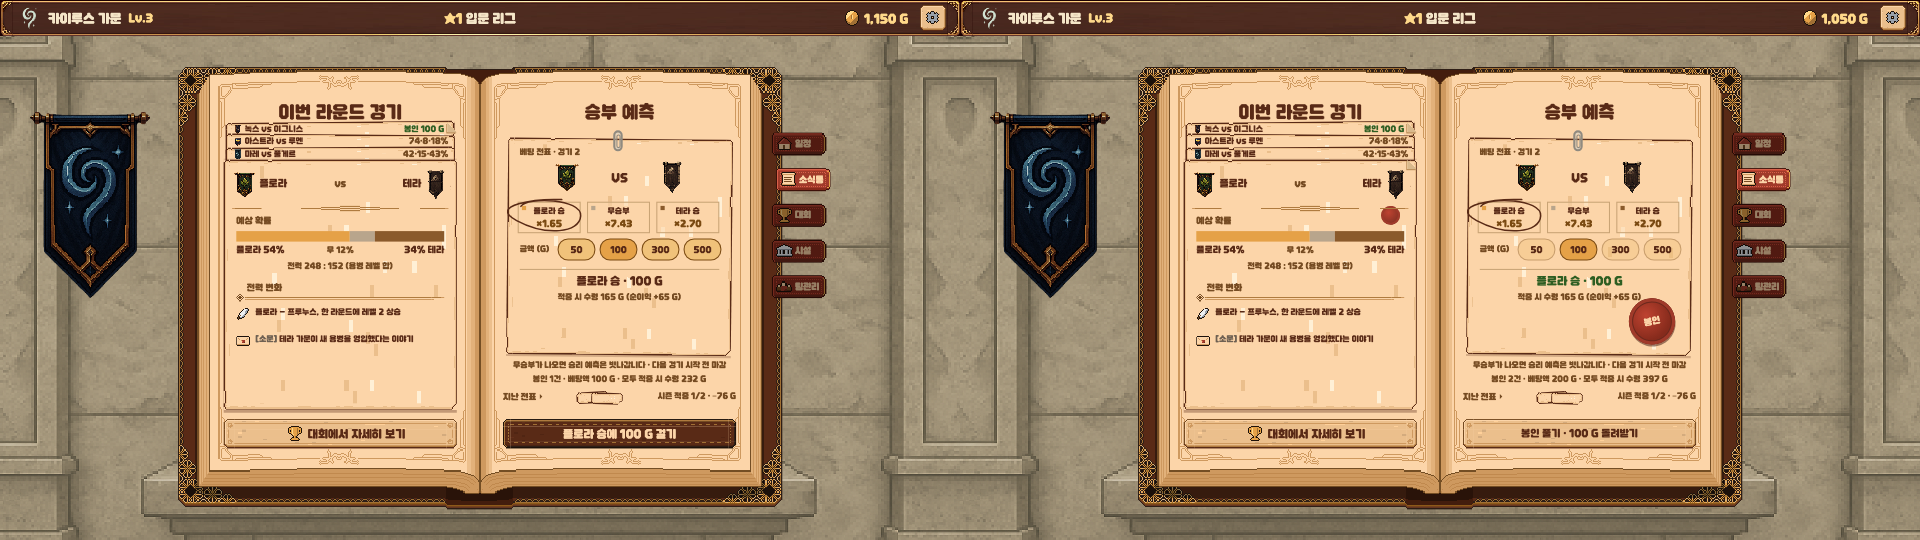
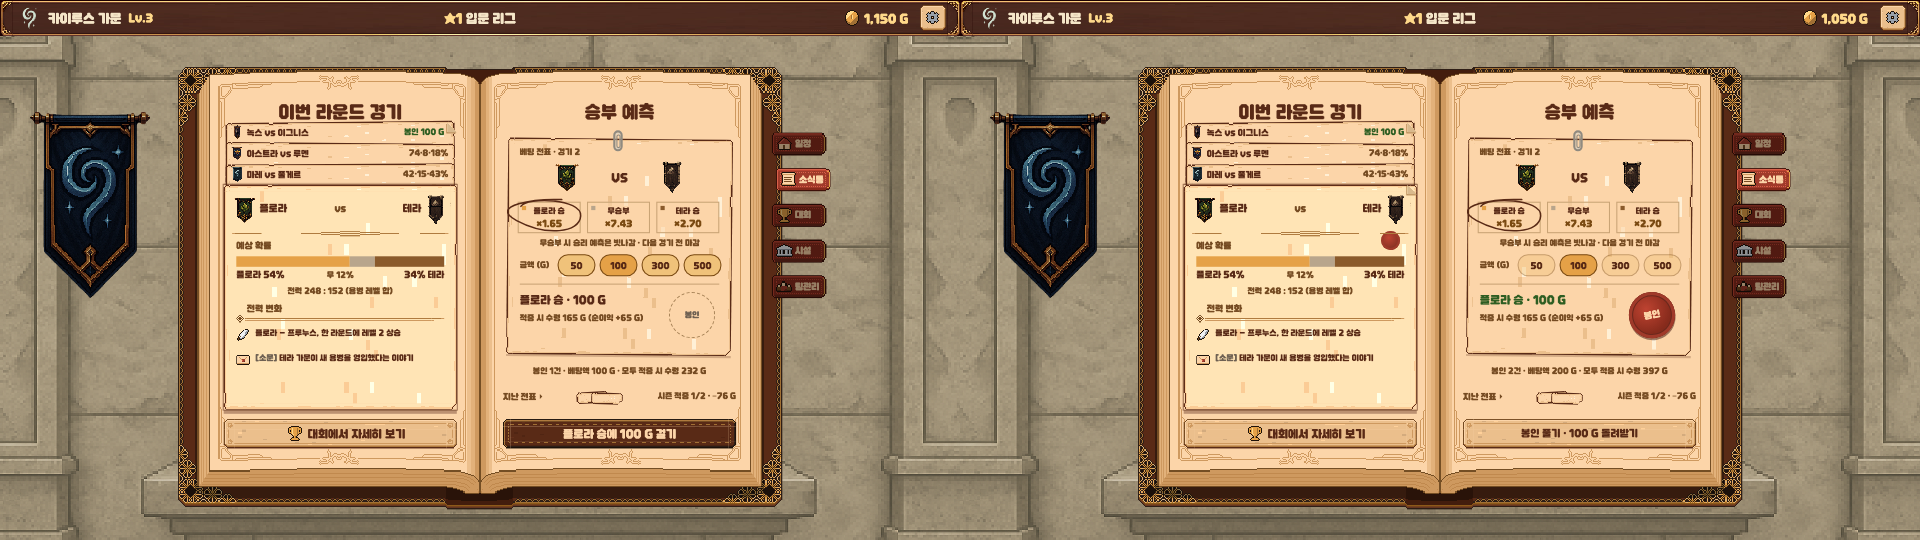
Docs: 소식통 시안 개선(카드 머리 크기, 앞 카드 구분, 봉인 자리, 무승부 안내 전표 안으로)

diff --git a/Docs/handover-mail/mockups/mail.html b/Docs/handover-mail/mockups/mail.html
@@ -94,13 +94,13 @@ function draw(){
   // ===== 왼쪽: 경기 카드 묶음 (페이지 인쇄 = 제목·버튼만)
   T(155,91,EN_?'This Round':'이번 라운드 경기',16,'ink','ma');
   const back=[0,1,2,3].filter(i=>i!=mi);
-  back.forEach((i,k)=>{const y=108+k*12,mm=M[i],bt=bets[i],q=trip(probs(mm));
+  back.forEach((i,k)=>{const y=108+k*20,mm=M[i],bt=bets[i],q=trip(probs(mm));
     N('COLLO:02_panels/tooltip',L0+2,y,218,40,6,`transform:rotate(${[-0.6,0.5,-0.3][k]}deg);box-shadow:0 1px 0 rgba(89,42,22,.35)`);
-    H+=`<div class="hit" data-i="${i}" style="left:${L0}px;top:${y}px;width:222px;height:12px"></div>`;
-    P(TEAM(mm[0]),L0+10,y+2,7,10,'object-fit:contain');T(L0+20,y+7,`${nm[mm[0]]} vs ${nm[mm[1]]}`,7.14,'ink','lm');
-    if(bt){T(L1-12,y+7,(EN_?'Sealed ':'봉인 ')+bt.stake+' G',7.14,'win','rm');DOG(L1,y+1);} else T(L1-8,y+7,`${q[0]}·${q[1]}·${q[2]}%`,7.14,'ink2','rm');});
+    H+=`<div class="hit" data-i="${i}" style="left:${L0}px;top:${y}px;width:222px;height:20px"></div>`;
+    P(TEAM(mm[0]),L0+8,y+3,10,14,'object-fit:contain');T(L0+22,y+10,`${nm[mm[0]]} vs ${nm[mm[1]]}`,7.6,'ink','lm');
+    if(bt){T(L1-12,y+10,(EN_?'Sealed ':'봉인 ')+bt.stake+' G',7.14,'win','rm');DOG(L1,y+1);} else T(L1-8,y+10,`${q[0]}·${q[1]}·${q[2]}%`,7.14,'ink2','rm');});
   CL=anim=='card'?'cardin':'';
-  const cy=144;N('COLLO:02_panels/tooltip',L0,cy,222,238,6,'box-shadow:0 3px 0 rgba(89,42,22,.35),0 -1px 0 rgba(89,42,22,.15)');
+  const cy=168;N('COLLO:02_panels/tooltip',L0,cy,222,214,6,'filter:brightness(1.07);outline:1px solid rgba(89,42,22,.55);box-shadow:0 4px 0 rgba(62,17,9,.35),0 -2px 0 rgba(89,42,22,.18)');
   if(bet){DOG(L1,cy);H+=`<div style="left:${L1-34}px;top:${cy+44}px;width:18px;height:18px;border-radius:50%;background:radial-gradient(circle at 40% 35%,#be4331,#6c291d);box-shadow:inset 0 0 0 2px #a03a2a"></div>`;}
   P(TEAM(a),L0+10,cy+10,20,28,'object-fit:contain');T(L0+34,cy+18,nm[a],9,'ink');
   P(TEAM(b),L1-30,cy+10,20,28,'object-fit:contain');T(L1-34,cy+18,nm[b],9,'ink','ra');T(155,cy+23,'vs',8,'ink2','mm');
@@ -109,9 +109,9 @@ function draw(){
   let bx=L0+12;pr.forEach((q,i)=>{const w=198*q;BOX(bx,cy+68,w,10,COL[i]);bx+=w;});
   const tr=trip(pr);T(L0+12,cy+82,`${nm[a]} ${tr[0]}%`,8,'ink');T(155,cy+83,`${EN_?'Draw':'무'} ${tr[1]}%`,7.14,'ink2','ma');T(L1-12,cy+82,`${tr[2]}% ${nm[b]}`,8,'ink','ra');
   const pA=Math.round(pw*pp/100/4)*4;T(155,cy+98,EN_?`Power ${pA} : ${pw-pA} (unit levels)`:`전력 ${pA} : ${pw-pA} (용병 레벨 합)`,7.14,'ink2','ma');
-  N('02_panels/header_ornament',L0+12,cy+128,198,7,[0,12,0,10]);T(L0+22,cy+118,EN_?'Power changes':'전력 변화',8,'ink2');
-  if(!news.length) T(155,cy+148,EN_?'No power changes.':'두 가문 모두 전력 변화가 없습니다.',7.14,'gray','ma');
-  news.slice(0,2).forEach((n,i)=>{const y=cy+140+i*26,r=n[0]=='rumor';PC('07_icons_color/'+(r?'fac_mail':'stat_agility'),L0+12,y,14,14);
+  N('02_panels/header_ornament',L0+12,cy+124,198,7,[0,12,0,10]);T(L0+22,cy+114,EN_?'Power changes':'전력 변화',8,'ink2');
+  if(!news.length) T(155,cy+144,EN_?'No power changes.':'두 가문 모두 전력 변화가 없습니다.',7.14,'gray','ma');
+  news.slice(0,2).forEach((n,i)=>{const y=cy+136+i*24,r=n[0]=='rumor';PC('07_icons_color/'+(r?'fac_mail':'stat_agility'),L0+12,y,14,14);
     TW(L0+30,y+1,180,(r?`<span class="gray" style="position:static">${EN_?'[Rumor]':'[소문]'}</span> `:'')+(EN_?n[2]:n[1]),7.14);});
   CL='';
   N('01_buttons/btn_normal_default',L0,391,222,28,10);P('07_icons_color/menu_league',L0+60,397,16,16);T(L0+80,405,EN_?'More in League':'대회에서 자세히 보기',10,'ink','lm');
@@ -125,21 +125,22 @@ function draw(){
     BOX(x+4,y+4,4,4,COL[i]);T(x+30,y+9,lab[i],7.14,'ink','mm');T(x+30,y+21,'×'+od[i].toFixed(2),8,'ink','mm','color:#7a4a12');
     H+=`<div class="hit" data-pick="${i}" style="left:${x}px;top:${y}px;width:60px;height:30px"></div>`;
     if(pick==i){if(anim=='ink')INK(x,y,60,30);else{const s=H.length;INK(x,y,60,30);H=H.slice(0,s)+H.slice(s).replace('class="ink"','class="ink" style2=""').replace('<path','<path style="animation:none"');}}});
-  T(R0+16,ty+102,EN_?'Amount':'금액 (G)',7.14,'ink2');
-  [50,100,300,500].forEach((v,i)=>{const x=R0+52+i*40,y=ty+95;const sel=v==stake;
+  T(421,ty+96,EN_?'Draw = win picks miss · closes before next match':'무승부 시 승리 예측은 빗나감 · 다음 경기 전 마감',7.14,'ink2','ma');
+  T(R0+16,ty+117,EN_?'Amount':'금액 (G)',7.14,'ink2');
+  [50,100,300,500].forEach((v,i)=>{const x=R0+52+i*40,y=ty+110;const sel=v==stake;
     H+=`<div class="${CL}" style="left:${x}px;top:${y}px;width:36px;height:21px;border-radius:10px;background:${sel?'#e5a147':'#f0c27a'};border:1px solid #7a4a12;box-sizing:border-box;${bet&&!sel?'opacity:.4':''}"></div>`;
     T(x+18,y+10.5,v,7.6,'ink','mm');H+=`<div class="hit" data-stake="${v}" style="left:${x}px;top:${y}px;width:36px;height:21px"></div>`;});
-  BOX(R0+16,ty+124,190,1,'#c9a476');
+  BOX(R0+16,ty+138,190,1,'#c9a476');
   const pay=pick>=0&&stake?Math.round(stake*od[pick]):0;
-  if(pick>=0&&stake){T(421,ty+130,`${lab[pick]} · ${stake} G`,10,bet?'win':'ink','ma');T(421,ty+148,EN_?`Pays ${pay} G (profit +${pay-stake} G)`:`적중 시 수령 ${pay} G (순이익 +${pay-stake} G)`,7.14,'ink2','ma');}
-  else T(421,ty+142,pick<0?(EN_?'Circle a result':'결과에 동그라미를 치세요'):(EN_?'Choose an amount':'금액을 고르세요'),8,'gray','mm');
-  if(bet){H+=`<div class="${anim=='seal'?'stamp':''}" style="left:${R1-64}px;top:${ty+152}px;width:44px;height:44px;border-radius:50%;background:radial-gradient(circle at 40% 35%,#be4331,#872b1c 60%,#6c291d);box-shadow:0 2px 0 rgba(62,17,9,.5),inset 0 0 0 3px #a03a2a,inset 0 0 0 4px #6c291d;transform:rotate(-12deg)"></div>`;T(R1-42,ty+174,EN_?'SEALED':'봉인',8,'cream','mm','transform:translate(-50%,-50%) rotate(-12deg)');}
+  if(pick>=0&&stake){T(R0+16,ty+148,`${lab[pick]} · ${stake} G`,10,bet?'win':'ink');T(R0+16,ty+168,EN_?`Pays ${pay} G (profit +${pay-stake} G)`:`적중 시 수령 ${pay} G (순이익 +${pay-stake} G)`,7.14,'ink2');}
+  else T(R0+16,ty+160,pick<0?(EN_?'Circle a result':'결과에 동그라미를 치세요'):(EN_?'Choose an amount':'금액을 고르세요'),8,'gray','lm');
+  if(!bet){H+=`<div style="left:${R1-64}px;top:${ty+146}px;width:44px;height:44px;border-radius:50%;border:1.5px dashed #a88458;box-sizing:border-box"></div>`;T(R1-42,ty+168,EN_?'SEAL':'봉인',7.14,'gray','mm');}
+  if(bet){H+=`<div class="${anim=='seal'?'stamp':''}" style="left:${R1-64}px;top:${ty+146}px;width:44px;height:44px;border-radius:50%;background:radial-gradient(circle at 40% 35%,#be4331,#872b1c 60%,#6c291d);box-shadow:0 2px 0 rgba(62,17,9,.5),inset 0 0 0 3px #a03a2a,inset 0 0 0 4px #6c291d;transform:rotate(-12deg)"></div>`;T(R1-42,ty+168,EN_?'SEALED':'봉인',8,'cream','mm','transform:translate(-50%,-50%) rotate(-12deg)');}
   CL='';
   CLIP(R0+105,ty-8);
   // 페이지 인쇄: 라운드 합계·지난 전표
-  T(421,336,EN_?'Draw = win picks miss · closes before next match':'무승부가 나오면 승리 예측은 빗나갑니다 · 다음 경기 시작 전 마감',7.14,'ink2','ma');
   const keys=Object.keys(bets).map(Number),tot=keys.reduce((s,k)=>s+bets[k].stake,0),mx=keys.reduce((s,k)=>s+Math.round(bets[k].stake*odds(M[k])[bets[k].pick]),0);
-  T(421,350,EN_?`${keys.length} sealed · ${tot} G · pays ${mx} G if all hit`:`봉인 ${keys.length}건 · 베팅액 ${tot} G · 모두 적중 시 수령 ${mx} G`,7.14,'ink2','ma');
+  T(421,342,EN_?`${keys.length} sealed · ${tot} G · pays ${mx} G if all hit`:`봉인 ${keys.length}건 · 베팅액 ${tot} G · 모두 적중 시 수령 ${mx} G`,7.14,'ink2','ma');
   T(R0,366,EN_?'Past slips ▸':'지난 전표 ▸',7.6,'ink2');T(R1,366,EN_?'Season 1/2 · −76 G':'시즌 적중 1/2 · −76 G',7.14,'ink2','ra');
   N('COLLO:02_panels/tooltip',R0+70,365,30,11,3,'transform:rotate(-3deg)');N('COLLO:02_panels/tooltip',R0+84,366,30,11,3,'transform:rotate(2deg)');
   if(bet){N('01_buttons/btn_normal_default',R0,391,222,28,10);T(421,405,EN_?`Break seal · refund ${stake} G`:`봉인 풀기 · ${stake} G 돌려받기`,9,'ink','mm');H+=`<div class="hit" data-act="cancel" style="left:${R0}px;top:391px;width:222px;height:28px"></div>`;}
